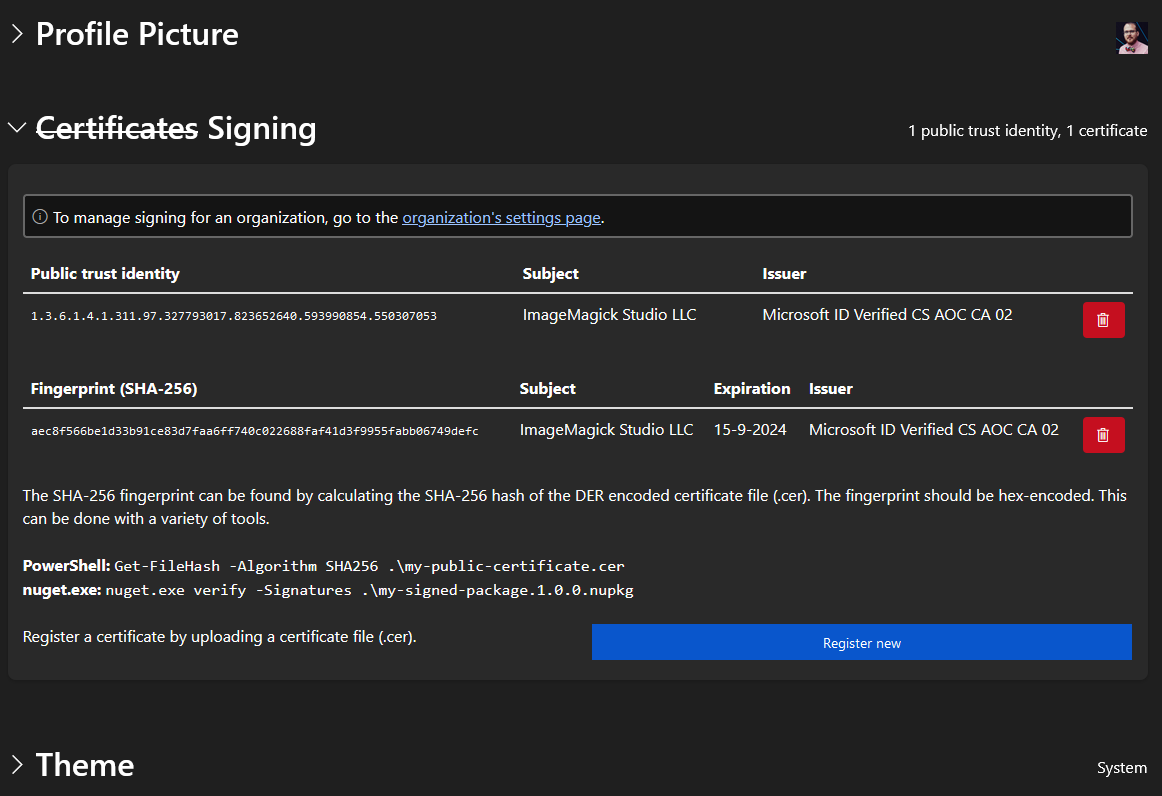
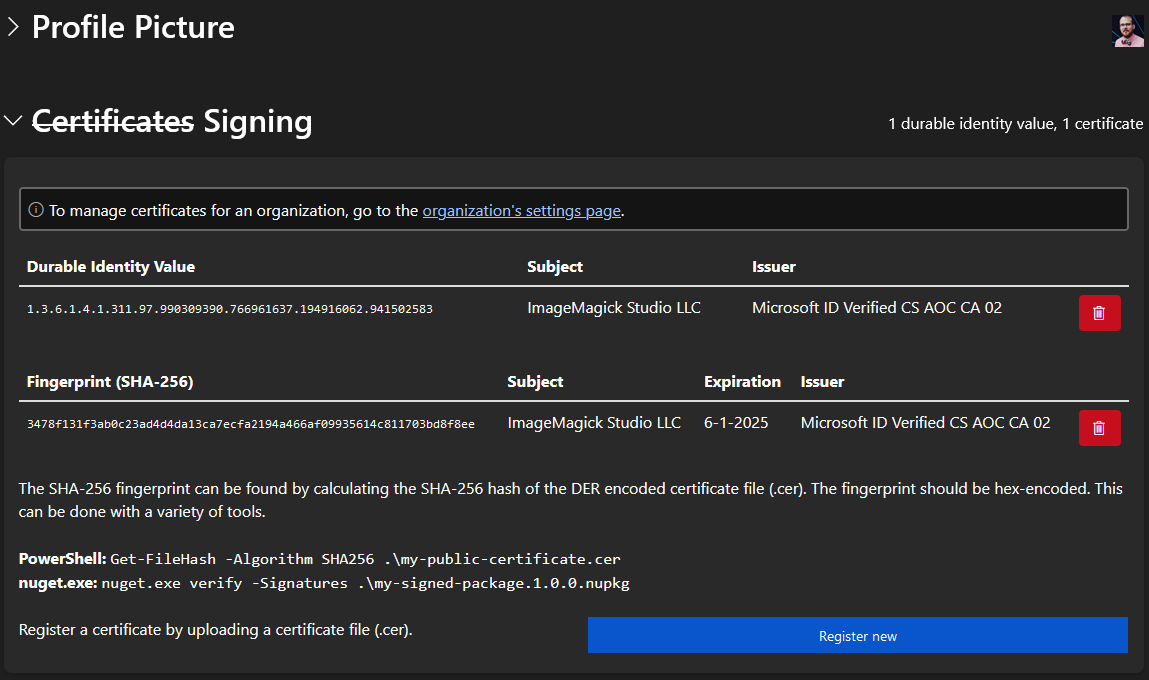
Use Durable Identity Value instead of EKU or Public trust identity.

diff --git a/accepted/2024/improve-support-for-packages-signed-with-trusted-signing.md b/accepted/2024/improve-support-for-packages-signed-with-trusted-signing.md
@@ -26,39 +26,41 @@ NuGet package with Trusted Signing.
 #### How would this be implemented?
 
 The first step would be to store the EKU that is inside the certificate that was used to sign the NuGet package with Trusted
-Signing. The certificate of Trusted Signing is currently only valid for three days, but it contains an EKU to that can be used to get the
-identity of the owner of the certificate. There are two EKU's in the certificate. One that tells us that it was signed with
-Trusted Signing (`1.3.6.1.4.1.311.97.1.0`) and another one that contains the Public Trust identity (e.g. 
+Signing. The certificate of Trusted Signing is currently only valid for three days, but it contains an EKU to that can be used
+to get the identity of the owner of the certificate. There are two EKU's in the certificate. One that tells us that it was signed
+with Trusted Signing (`1.3.6.1.4.1.311.97.1.0`) and another one that contains the Durable Identity Value (e.g.
 `1.3.6.1.4.1.311.97.990309390.766961637.194916062.941502583`). More details about this can be found here:
-https://learn.microsoft.com/en-us/azure/trusted-signing/concept-trusted-signing-cert-management. 
+https://learn.microsoft.com/en-us/azure/trusted-signing/concept-trusted-signing-cert-management.
 
-I would like to propose to link EKU's to the user in a similar way as that is now done with certificates:
+I would like to propose to link Durable Identity Values to the user in a similar way as that is now done with certificates:
 
-![EKU](images/trusted-signing-eku.png)
+![Durable Identity Value](images/trusted-signing-durable-identity-value.png)
 
-But this would require a user to enter that EKU in the interface to link it with their account. We could also start with
-automatically linking the EKU to the user by using the current "certificate upload" interface. The user would need to do the
-following:
+But this would require a user to enter that Durable Identity Value in the interface to link it with their account. We could also start with
+automatically linking the Durable Identity Value to the user by using the current "certificate upload" interface. The user would need to do
+the following:
 - Extract the `.cer` file of the signing certificate from the NuGet package.
 - Upload the `.cer` file and link it to their account.
 - Upload the NuGet package that was signed with Trusted Signing.
 
-Below is a picture that show how the certificate and EKU would be linked to user before and after the NuGet package is uploaded.
+Below is a picture that show how the certificate and Durable Identity Value would be linked to user before and after the NuGet package is
+uploaded.
 
-![EKU link](images/trusted-signing-eku-link.png)
+![Durable Identity Value link](images/trusted-signing-durable-identity-value-link.png)
 
-This would mean that the certificate is no longer linked to the user and will no longer be shown in the interface because the EKU
-is now linked to the user. That will mean that the user would need to contact the NuGet team to remove the EKU link until updates
-to the interface have been made. But I don't think a lot of people will need this functionality right away.
+This would mean that the certificate is no longer linked to the user and will no longer be shown in the interface because the
+Durable Identity Value is now linked to the user. That will mean that the user would need to contact the NuGet team to remove
+the Durable Identity Value link until updates to the interface have been made. But I don't think a lot of people will need this
+functionality right away.
 
-The EKU will only be linked when the following conditions are true:
+The Durable Identity Value will only be linked when the following conditions are true:
 - The package was signed within the last 30 days.
 - The signing certificate must be issued by the CA certificate `Microsoft Identity Verification Root Certificate Authority 2020`.
   (https://learn.microsoft.com/en-us/azure/trusted-signing/concept-trusted-signing-trust-models)
 - The signing certificate has a valid counter-signature (timestamp).
 - The signing certificate contains the Trusted Signing EKU.
-- The signing certificate contains a Public Trust Identity EKU.
-- The Public Trust Identity EKU is not already linked to the user.
+- The signing certificate contains an EKU with the Durable Identity Value.
+- The Durable Identity Valueis not already linked to the user.
 
 This mean that the following would happen inside the service that handles the upload of NuGet packages:
 
@@ -73,49 +75,51 @@ they will expire after three days.
 This helps the user because they will now no longer need to upload a `.cer` file everytime they publish a new NuGet package that
 was signed with the same Trusted Signing certificate. But inside the NuGet Gallery they will no longer see the certificate that
 they uploaded earlier. This could confuse the user so we could keep the link and let the user remove it manually. But doing this
-would also not make it clear that an EKU was linked to their account. Making this visible in the interface will be the next step
-of these changes.
+would also not make it clear that an Durable Identity Value was linked to their account. Making this visible in the interface will
+be the next step of these changes.
 
-### Step 2: Change how Trusted Signing EKU's are shown in the NuGet Gallery.
+### Step 2: Change how Trusted Signing Durable Identity Values are shown in the NuGet Gallery.
 
 #### How would this be implemented?
 
 The next steps would be to change how this will be displayed inside the NuGet Gallery. Below is an image of how this could be
 added to the account page of a user (please forgive me for my css skills). The naming is a proposal and I am open to suggestions
-but I think it would be best to show the EKU's in a separate table.
+but I think it would be best to show the Durable Identity Value in a separate table.
 
 ![User profile](images/trusted-signing-profile.png)
 
-This image demonstrates how this would look when a user has both an EKU and certificate linked to their account. As mentioned in
-step 1 the certificate would no longer be shown and the user would only see their EKU's. The Subject and Issuer will be extracted
-from the certificate the first time and added to the EKU data. Future uploads should also check the Subject and Issuer and update
+This image demonstrates how this would look when a user has both a Durable Identity Value and certificate linked to their account.
+As mentioned in step 1 the certificate would no longer be shown and the user would only see their Durable Identity Values. The 
+Subject and Issuer will be extracted from the certificate the first time and added to the data of the Durable Identity Value.
+Future uploads should also check the Subject and Issuer and update
 the data if they have changed.
 
 #### How does this help the user?
 
 When only step 1 is implemented it will already be a huge help for users that use Trusted Signing but it will look strange inside
-the NuGet Gallery because no certificates are shown anymore and they cannot unlink their EKU. Adding this separate table with EKU's
-linked to the user their account would allow them to remove this EKU. I personally don't think users would really need this
-functionality right away so that is why I think this could be added as a second step.
+the NuGet Gallery because no certificates are shown anymore and they cannot unlink their Durable Identity Value. Adding this 
+separate table with Durable Identity Values linked to the user their account would allow them to remove this Durable Identity Value.
+I personally don't think users would really need this functionality right away so that is why I think this could be added as a second step.
 
-### Step 3: Allow a user to submit a Public Trust identity EKU in the NuGet Gallery
+### Step 3: Allow a user to submit a Public Trust identity Durable Identity Value in the NuGet Gallery
 
 #### How would this be implemented?
 
 When a `.cer` file is uploaded only the thumbprint is stored because the certificate is not parsed by the NuGet Gallery due to
-security reasons. This means we cannot add the Public trust identity EKU record when a certificate is uploaded. For a user that
-has access to the Azure Portal it would be easier to copy the EKU from the interface:
+security reasons. This means we cannot add the Durable Identity Value record when a certificate is uploaded. For a user that
+has access to the Azure Portal it would be easier to copy the Durable Identity Value from the interface:
 
 ![Azure Portal](images/trusted-signing-azure.png)
 
 And this can also be done before a NuGet package has been signed. This copied value should then be entered into a form that adds
-this EKU to the user. As mentioned earlier the Subject and Issuer will be set once the first package that has this EKU is uploaded.
+this Durable Identity Value to the user. As mentioned earlier the Subject and Issuer will be set once the first package that has
+this Durable Identity Value is uploaded.
 
 #### How does this help the user?
 
-Adding this in the interface would make it possible for a user to register an EKU in their account. This would be easier than
-extracting the certificate from a signed NuGet package. The process to get that `.cer` file from a signed package is not that
-simple. This would be the final step that would give a user full control over their EKU's.
+Adding this in the interface would make it possible for a user to register a Durable Identity Value in their account. This would
+be easier than extracting the certificate from a signed NuGet package. The process to get that `.cer` file from a signed package
+is not that simple. This would be the final step that would give a user full control over their Durable Identity Values.
 
 ### Technical explanation
 
@@ -147,9 +151,75 @@ simple. This would be the final step that would give a user full control over th
 ## Future Possibilities
 
 Users of the NuGet client can now [trust a signing certificate](https://learn.microsoft.com/en-us/nuget/reference/cli-reference/cli-ref-trusted-signers)
-but that now needs a thumbprint so support for the Public Trust identity EKU should also be added there. It is an existing issue
+but that now requires a thumbprint so support for the Durable Identity Value should also be added there. It is an existing issue
 for users that want to trust a signing certificate that was issued by Trusted Signing. But this is something that can be added
 at a later point in time.
 
-And in the future it might also be a good idea to show the EKU of the certificate that was used to signed in the package overview
-instead of the thumbprint but I think this can be added at a future point in time.
+And in the future it might also be a good idea to show the Durable Identity Value of the certificate that was used to signed in
+the package overview instead of the thumbprint but I think this can also be added at a future point in time.
+
+## Resources
+
+<details>
+<summary>Mermaid graphs</summary>
+
+```
+graph TD
+    User(User)
+    Cert1(Certificate)
+    Cert2(Certificate)
+    Cert3(Certificate)
+    DurableIdentityValue(Durable Identity Value)
+    Package(Package)
+
+    subgraph Certificates[" "]
+        Cert1
+        Cert2
+        Cert3
+    end
+
+    User --> Cert1
+    User --> DurableIdentityValue
+    DurableIdentityValue --> Cert2
+    DurableIdentityValue --> Cert3
+    Cert1 --> Package
+    Cert2 --> Package
+    Cert3 --> Package
+```
+
+```
+graph TD
+    subgraph after["NuGet package is uploaded"]
+        User -. Link is removed .-> Certificate
+        Certificate --> Package
+        User ==> DurableIdentityValue(Durable Identity Value)
+        DurableIdentityValue ==> Certificate
+    end
+
+    subgraph before[".cer file is uploaded"]
+        UserB(User) --> CertificateB(Certificate)
+        CertificateB --> PackageB(Package)
+    end
+```
+
+```
+graph LR
+    Upload(User uploads NuGet package) --> TS{Signed with Trusted Signing cerificate?}
+    TS -- Yes --> CheckDurableIdentityValue(Check linked Durable Identity Values)
+    CheckDurableIdentityValue --> MatchDurableIdentityValue{Matching Durable Identity Value found?}
+    MatchDurableIdentityValue -- No --> CheckCert
+    TS -- No --> CheckCert(Check linked certificates)
+    MatchDurableIdentityValue -- Yes --> PublishPackage(Publish package)
+    CheckCert --> MatchCert{Matching thumbprint found?}
+    MatchCert -- Yes --> WasDurableIdentityValue{Signed with Trusted Signing cerificate?}
+    MatchCert -- No --> Refuse{{Package refused}}
+    WasDurableIdentityValue -- No --> CheckExpired{Certificate expired?}
+    CheckExpired -- No --> PublishPackage
+    CheckExpired -- Yes --> Refuse
+    WasDurableIdentityValue -- Yes --> CanLinkDurableIdentityValue{Can link Durable Identity Value?}
+    CanLinkDurableIdentityValue-- Yes --> LinkDurableIdentityValue(Link Durable Identity Value to user)
+    CanLinkDurableIdentityValue -- No --> Refuse
+    LinkDurableIdentityValue --> RemoveCert(Unlink certificate from user)
+    RemoveCert --> PublishPackage
+```
+</details>
